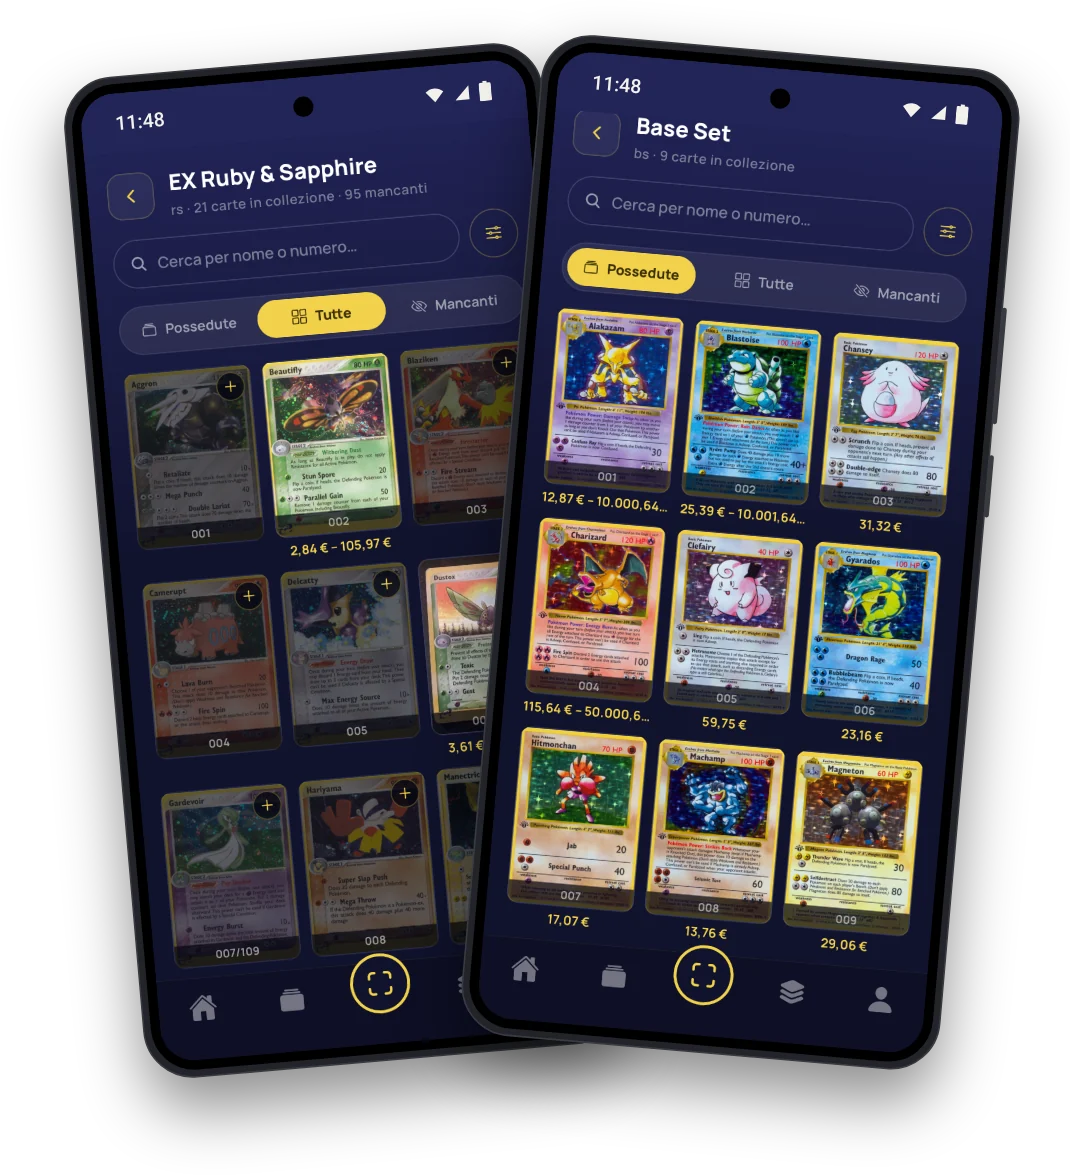
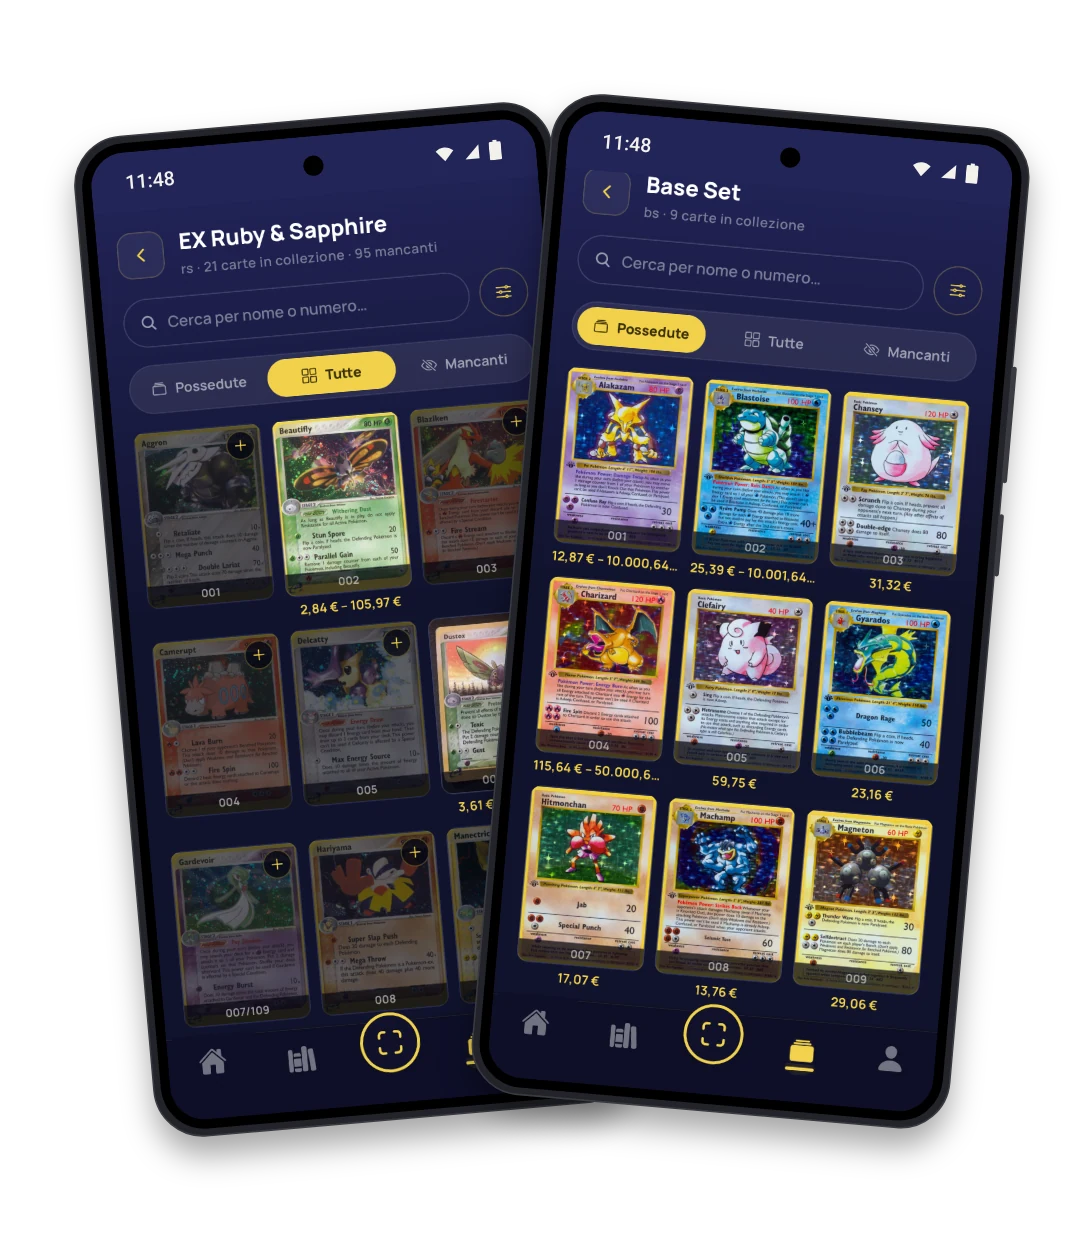
Refactor code structure for improved readability and maintainability

diff --git a/index.html b/index.html
@@ -687,7 +687,7 @@ footer { border-top: 1px solid var(--line); padding-block: 28px 40px; color: var
         </div>
       </li>
       <li class="feat" id="binder" style="--i: 3">
-        <img class="feat-img single" src="screens/sito_binder.png" width="619" height="1143" alt="Telefono con OmniTCG: esempio di binder" loading="lazy">
+        <img class="feat-img single" src="screens/sito_binder.webp" width="619" height="1143" alt="Telefono con OmniTCG: esempio di binder" loading="lazy">
         <div>
           <span class="eyebrow">Binder · novità</span>
           <h3>Il raccoglitore delle tue carte, nell'app.</h3>
@@ -696,7 +696,7 @@ footer { border-top: 1px solid var(--line); padding-block: 28px 40px; color: var
         </div>
       </li>
       <li class="feat" style="--i: 4">
-        <img class="feat-img" src="screens/sito_coppia_binder.png" width="1070" height="1175" alt="Due telefoni con OmniTCG: i binder creati con l'AI" loading="lazy">
+        <img class="feat-img" src="screens/sito_coppia_binder.webp" width="1070" height="1175" alt="Due telefoni con OmniTCG: i binder creati con l'AI" loading="lazy">
         <div>
           <span class="eyebrow">Binder con l'AI · novità</span>
           <h3>Descrivi il binder. Lo prepara l'AI.</h3>
